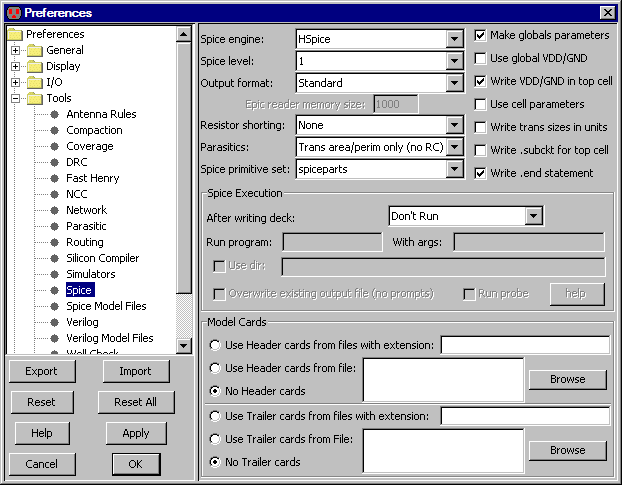
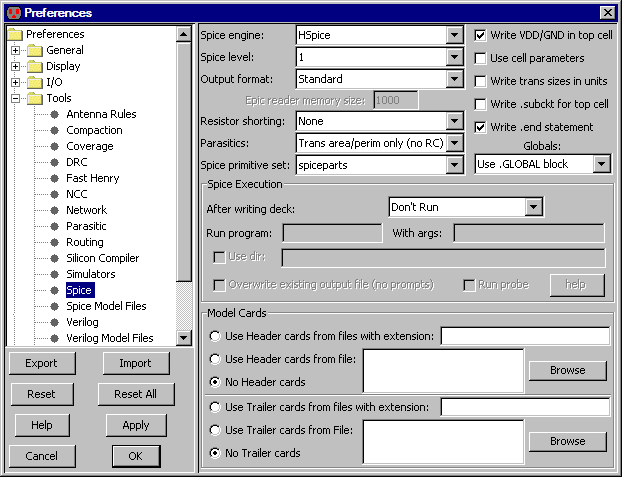
Updating user's manual
git-svn-id: https://svn.java.net/svn/electric~svn/trunk@8550 b64ed6c1-75a8-e629-b1da-d0dae74a743a

Changed region(s): [[0.0, 0.0, 1.0, 0.9686], [0.336, 0.9099, 0.9775, 0.9979]]

diff --git a/srcj/com/sun/electric/tool/user/help/helphtml/chap09-04-03.html b/srcj/com/sun/electric/tool/user/help/helphtml/chap09-04-03.html
@@ -139,13 +139,6 @@ does not write any Resistor/Capacitor information.</LI>
 </LI>
 <LI><B>Spice primitive set</B> Switches between Spice primitive sets.
 Currently there are only two: "spiceparts" and "spicepartsG3".</LI>
-<LI><B>Make globals parameters</B> Causes global signals (like power and ground) to appear as parameters on
-.SUBCKT headers.
-It is not sensible to check both this and "Use global VDD/GND<".</LI>
-<LI><B>Use global VDD/GND</B> Causes power and ground to be placed in a .GLOBAL block.
-It is not sensible to check both this and "Make globals parameters".
-Note that this preference should not be used when Global Partitions are in use
-(see <A HREF="chap06-09-05.html#chap06-09-05">Section 6-9-5</A>).</LI>
 <LI><B>Write VDD/GND in top cell</B> Whether to write power and ground signals in the top-level cell.</LI>
 <LI><B>Use cell parameters</B> When set, any parameters defined on the cell will appear in the Spice deck.
 When not checked, each parameterized cell appears multiple times in the deck,
@@ -158,6 +151,15 @@ as a subcircuit, and a call made to it.
 The default is to write the top-level cell without a subcircuit wrapper.</LI>
 <LI><B>Write .end statement</B> Requests that an .end statement be written at the end of the deck.
 This can be disabled in situations where the deck is part of a larger Spice deck.</LI>
+<LI><B>Globals</B> Has three options for the treatment of global signals (such as power and ground):
+  <UL>
+  <LI>"No special treatment" causes globals to be treated like other signals.</LI>
+  <LI>"Use .GLOBAL block" places global signals in a .GLOBAL block (not supported by all versions of Spice).</LI>
+  <LI>"Create .SUBCKT ports" causes globals to be added to .SUBCKT headers as explicit ports.
+      Note that this preference should be used when Global Partitions are in use
+      (see <A HREF="chap06-09-05.html#chap06-09-05">Section 6-9-5</A>).</LI>
+  </UL>
+</LI>
 </UL>
 <P>
 <B>Running Spice:</B> Electric can create an external process as specified by the user to

diff --git a/srcj/com/sun/electric/tool/user/help/helphtml/chap02-03.html b/srcj/com/sun/electric/tool/user/help/helphtml/chap02-03.html
@@ -17,22 +17,23 @@ This means that certain rules apply to circuit deletion:
 However, if a node is deleted that has exactly two arcs,
 connected as though the node were in the middle of a single arc,
 then the node and two arcs are replaced with a single arc.</LI>
-<LI>In the interest of cleanliness, if an arc is erased,
-any isolated pins are also erased.</LI>
 </UL>
 <TABLE><TR><TD VALIGN=TOP>
 <UL>
+<LI>In the interest of cleanliness, if an arc is erased,
+any isolated pins are also erased.</LI>
 <LI>If an erased node has an export on it (as in this example),
 then the export disappears and so do all arcs connected to the port on instances of the current cell
 (for more information on hierarchy, see <A HREF="chap03-01.html#chap03-01">Chapter 3</A>).</LI>
 </UL>
+</TD><TD><CENTER><IMG SRC="fig02-06.png" ALT="Figure 2.6"></CENTER></TD></TR></TABLE>
+<P>
 The exception to these rules is the Nodes Preference "Reconstruct arcs and exports when deleting instances"
 (see <A HREF="chap06-02.html#chap06-02">Section 6-2</A>)
 which requests that when a cell instance is deleted, and it has arcs connected to it or exports from it,
 these arcs and exports will be "reconstructed" so that they continue to exist.
 Reconstruction consists of creating pins where the cell instance ports used to be so that the arcs and
 exports can continue to exist.
-</TD><TD><CENTER><IMG SRC="fig02-06.png" ALT="Figure 2.6"></CENTER></TD></TR></TABLE>
 <P>
 <TABLE><TR><TD><CENTER><IMG SRC="fig03-14.png" ALT="Figure 3.14"></CENTER></TD><TD>
 <!-- NEED 3in -->

diff --git a/srcj/com/sun/electric/tool/user/help/helphtml/chap06-09-03.html b/srcj/com/sun/electric/tool/user/help/helphtml/chap06-09-03.html
@@ -57,16 +57,18 @@ When a node's port is a bus, you can see the signals on that bus by selecting th
 the <B>Object Properties...</B> command.
 In the full dialog, select "Bus Members on Port" to see the signals.
 <P>
+<!-- NEED 4in -->
 <H3>Arrayed Nodes</H3>
 <P>
 Besides using array names on busses, you can also give array names to cell instances in a schematic.
 Netlisters will create multiple copies of that node, named with the individual elements of the array.
 <P>
+<TABLE><TR><TD><CENTER><IMG SRC="fig06-28.png" ALT="Figure 6.28"></CENTER></TD><TD>
 When a cell instance is arrayed, the connections to its ports can be similarly arrayed.
 For example, suppose that schematic cell X has wire port Y and bus port Z[1:2].
 An instance of cell X is arrayed by giving it the name M[2:4].
 Ports Y and Z can be connected in two ways:
-<TABLE><TR><TD><CENTER><IMG SRC="fig06-28.png" ALT="Figure 6.28"></CENTER></TD><TD>
+</TD></TR></TABLE>
 <UL>
 <LI>Implicit connection to all instances (top illustration).
 If the wire port Y is connected to a single wire (A), then wire A connects to port Y on all three instances of cell X.
@@ -85,7 +87,6 @@ D[3] and D[4] connect to Z[1] and Z[2] on M[3]; and
 D[5] and D[6] connect to Z[1] and Z[2] on M[4].
 </LI>
 </UL>
-</TD></TR></TABLE>
 <P>
 Note that it is not possible to array a primitive node from the Schematic technology.
 Instead, you must place that node inside of a cell, and array instances of the cell.

diff --git a/srcj/com/sun/electric/tool/user/help/helphtml/chap04-10-02.html b/srcj/com/sun/electric/tool/user/help/helphtml/chap04-10-02.html
@@ -22,14 +22,13 @@ The currently selected layer is highlighted in the list on the left and shown in
 Change the "3D HIGHLIGHTED INSTANCES" entry in the Layers Preferences to change the color used for
 highlighting layers in the 3D view and 
 in the preferences.
-
+</TD><TD><CENTER><IMG SRC="fig04-11.png" ALT="Figure 4.11"></CENTER></TD></TR></TABLE>
 <P>
 The distance of the layer from the wafer bottom and its thickness are the most important values.
 These values are not only used for the 3D view; they are also used whenever layers are presented in "height" order.
 Once selected,
 <!--you can drag layers to the desired height (on the right side) or -->
 you can type new values into the "Thickness" and "Distance" fields.
-</TD><TD><CENTER><IMG SRC="fig04-11.png" ALT="Figure 4.11"></CENTER></TD></TR></TABLE>
 <P>
 By default, a perspective view is shown.
 Uncheck "Use Perspective" to see a parallel display.

diff --git a/srcj/com/sun/electric/tool/user/help/helphtml/chap04-11-02.html b/srcj/com/sun/electric/tool/user/help/helphtml/chap04-11-02.html
@@ -116,12 +116,12 @@ to display the range between the main and extension cursors.
 <P>
 <TABLE><TR><TD><CENTER><IMG SRC="fig04-09.png" ALT="Figure 4.9"></CENTER></TD><TD>
 Besides controlling time with menu commands, you can also use the Pan and Zoom tools of the toolbar.
-You can also adjust time by clicking-and-dragging in the time axis at the top.
 </TD><TD><CENTER><IMG SRC="fig04-08.png" ALT="Figure 4.8"></CENTER></TD></TR></TABLE>
 <P>
 The pan tool lets you smoothly shift time when you click and drag.
 In the zoom tool, you zoom into an area by clicking and dragging out that area.
 To zoom out, shift-click in the center of the desired area.
+You can also adjust time by clicking-and-dragging in the time axis at the top.
 <P>
 <TABLE><TR><TD>
 You can control the horizontal and vertical range precisely by double-clicking in the vertical scale area.

diff --git a/srcj/com/sun/electric/tool/user/help/helphtml/chap09-04-02.html b/srcj/com/sun/electric/tool/user/help/helphtml/chap09-04-02.html
@@ -57,11 +57,11 @@ For the difference between Preferences and Project Settings, see
 LORD KNOWS WHAT THESE THINGS DO.
 </TD></TR></TABLE>
 <P>
-<TABLE><TR><TD VALIGN=TOP>
 A final set of Verilog controls can be found in the Verilog Model Files Preferences
 (in menu <B>File / Preferences...</B>, "Tools" section, "Verilog Model Files" tab).
-<P>
 The Verilog Model Files Preferences dialog lets you attach disk files with Verilog code to any cell in the library.
+<P>
+<TABLE><TR><TD VALIGN=TOP>
 Once attached, the generated Verilog will use the contents of that file instead of examining the cell contents.
 This allows you to create your own definitions in situations where the derived Verilog would be too complex or otherwise incorrect.
 </TD><TD><CENTER><IMG SRC="fig09-39.png" ALT="Figure 9.39"></CENTER></TD></TR></TABLE>

diff --git a/srcj/com/sun/electric/tool/user/help/helphtml/chap04-08.html b/srcj/com/sun/electric/tool/user/help/helphtml/chap04-08.html
@@ -32,11 +32,11 @@ Printing Preferences (in menu <B>File / Preferences...</B>, "General" section, "
 The "For all printing" section at the top has some general options.
 The default is to include the entire cell,
 but you can choose to print only what is highlighted or only what is displayed by selecting the appropriate buttons.
+</TD><TD><CENTER><IMG SRC="fig04-05.png" ALT="Figure 4.5"></CENTER></TD></TR></TABLE>
 <P>
 Note that when printing the highlighted area,
 a precise selection can be made with Area selection
 (see <A HREF="chap02-01-03.html#chap02-01-03">Section 2-1-3</A>).
-</TD><TD><CENTER><IMG SRC="fig04-05.png" ALT="Figure 4.5"></CENTER></TD></TR></TABLE>
 <P>
 The "Print resolution" is the number of dots-per-inch (DPI) that the printer expects.
 Higher resolutions use more memory for the print image.

diff --git a/srcj/com/sun/electric/tool/user/help/helphtml/chap04-07-02.html b/srcj/com/sun/electric/tool/user/help/helphtml/chap04-07-02.html
@@ -14,13 +14,13 @@ the cursor location is snapped to a grid so that editing is cleaner.
 This snapping is controlled by the alignment options
 (which are not necessarily the same as the grid options).
 <P>
-<TABLE><TR><TD><CENTER><IMG SRC="fig04-03.png" ALT="Figure 4.3"></CENTER></TD><TD>
-<P>
 The Grid Preferences
 (in menu <B>File / Preferences...</B>, "Display" section, "Grid" tab)
 presents a dialog in which alignment values may be set.
 For example, if the grid spacing is 2x3, and the alignment is 0.5 x 0.5,
 then there are up to six different positions for placement inside a displayed grid rectangle.
+<P>
+<TABLE><TR><TD><CENTER><IMG SRC="fig04-03.png" ALT="Figure 4.3"></CENTER></TD><TD>
 <P>
 There are 5 alignment values, all settable in the dialog.
 The current alignment setting is shown in the toolbar

diff --git a/srcj/com/sun/electric/tool/user/help/helphtml/chap09-10-01.html b/srcj/com/sun/electric/tool/user/help/helphtml/chap09-10-01.html
@@ -49,11 +49,9 @@ transfers schematic net names to layout net names after NCC completes and matche
 This allows one to probe networks in layout with the same name as in the schematics,
 making it easier to compare schematic simulations against layout simulations.</LI>
 <LI>"Extract Power/Ground"
-???????</LI>
-<LI>"Extract R"
-???????</LI>
-<LI>"Extract C"
-???????</LI>
+Always dimmed in the dialog: this feature is not available.</LI>
+<LI>"Extract R" / "Extract C" allow you to uncheck one of these to remove the R or C from
+RC parasitics computations.</LI>
 <LI>"Use exemptedNets.txt file"
 looks for the file 'exemptedNets.txt' in your library directory. This file specifies
 nets that are exempted from simple parasitic extraction.  There are two ways these

diff --git a/srcj/com/sun/electric/tool/user/help/helphtml/chap06-09-05.html b/srcj/com/sun/electric/tool/user/help/helphtml/chap06-09-05.html
@@ -48,7 +48,7 @@ The subcircuit for the rightmost icon will not use the global power signal, but 
 <P>
 When writing a Spice netlist that makes use of Global Partitions, you cannot use the .GLOBAL block
 because it will prevent the overriding of signals.
-You must uncheck "Use global VDD/GND" and instead check "Make globals parameters" in the Spice Preferences
+You must set the "Globals" field in Spice Preferences to "Create .SUBCKT ports"
 (see <A HREF="chap09-04-03.html#chap09-04-03">Section 9-4-3</A>).
 
 <!-- TRAILER -->

diff --git a/srcj/com/sun/electric/tool/user/help/helphtml/chap07-05-01.html b/srcj/com/sun/electric/tool/user/help/helphtml/chap07-05-01.html
@@ -43,6 +43,7 @@ The schematics technology understands these transistor types:
 <LI><B>DMES / EMES</B> MESFET transistors.</LI>
 <LI><B>pJFET / nJFET</B> JFET transistors.</LI>
 </UL>
+<P>
 Other primitives that can appear in different forms:
 <UL>
 <LI>Capacitors can be normal or electrolytic.</LI>

diff --git a/srcj/com/sun/electric/tool/user/help/helphtml/chap06-10-03.html b/srcj/com/sun/electric/tool/user/help/helphtml/chap06-10-03.html
@@ -1,3 +1,5 @@
+<!-- NEED 4in -->
+
 <!-- HEADER 6-10-3: Special Outline Generation -->
 
 <TABLE><TR><TD><CENTER><IMG SRC="fig06-12.png" ALT="Figure 6.12"></CENTER></TD><TD>
